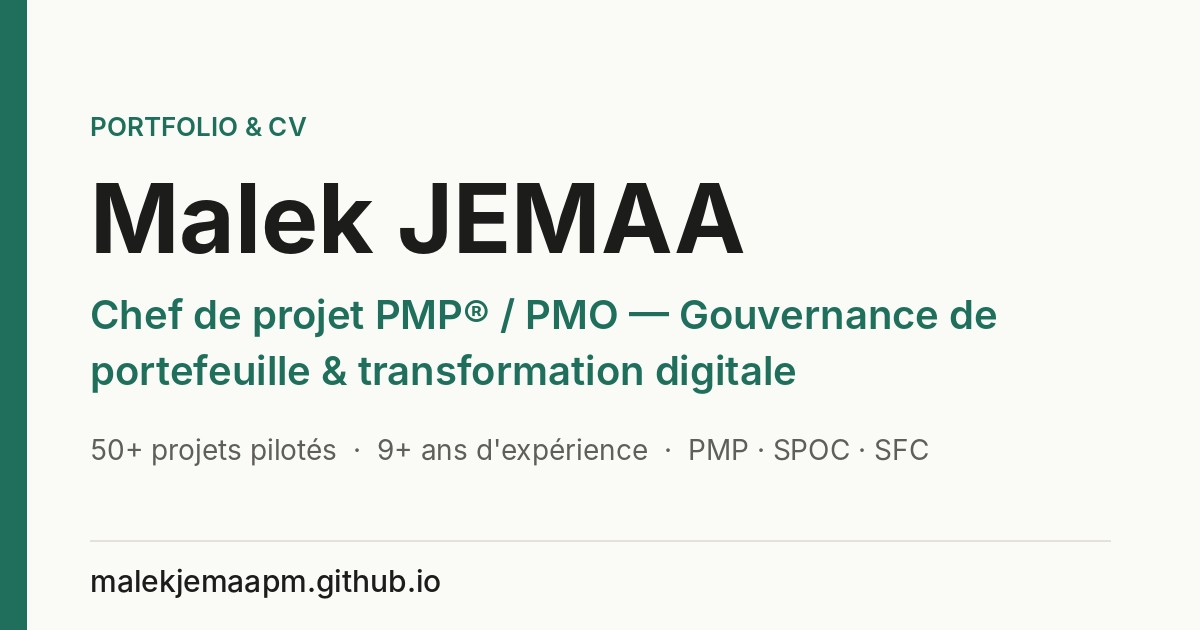
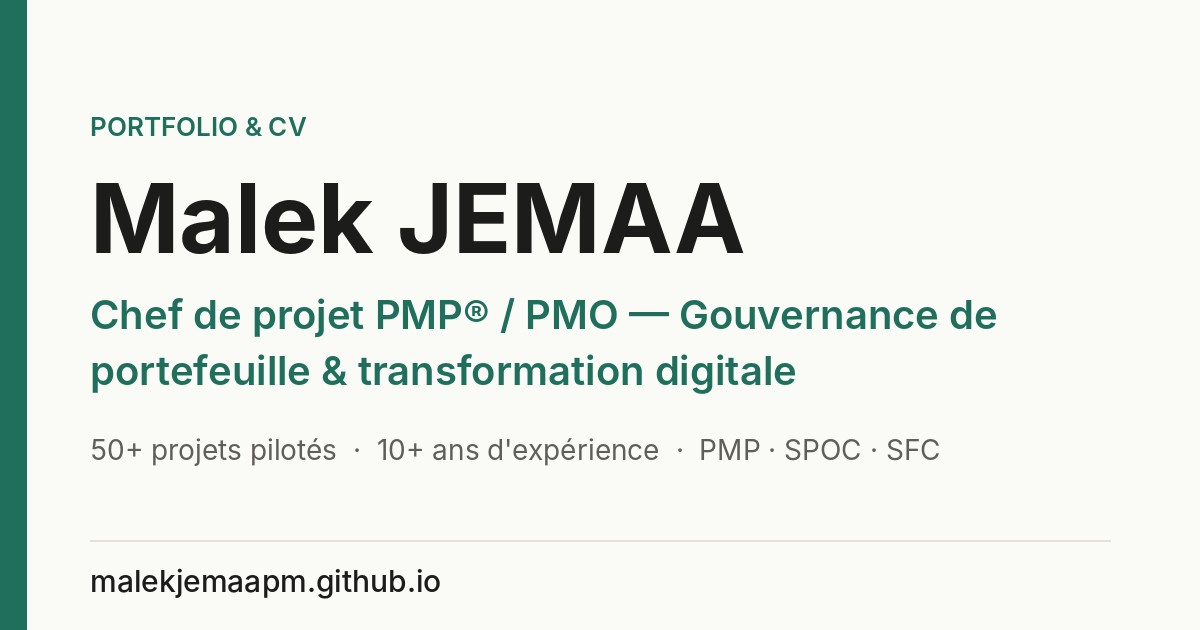
Add files via upload

Changed region(s): [[0.3083, 0.6937, 0.8017, 0.754]]

diff --git a/donnees.js b/donnees.js
@@ -11,7 +11,7 @@ const DONNEES = {
   nom: "Malek JEMAA",
   titre: "Chef de projet PMP® / PMO — Gouvernance de portefeuille & transformation digitale",
   accroche:
-    "Plus de 9 ans d'expérience à piloter des programmes de transformation digitale (IT, ERP, CRM, applications métier). Je mets en place la gouvernance, structure les portefeuilles de projets et aligne l'exécution technologique sur les objectifs business.",
+    "Plus de 10 ans d'expérience à piloter des programmes de transformation digitale (IT, ERP, CRM, applications métier). Je mets en place la gouvernance, structure les portefeuilles de projets et aligne l'exécution technologique sur les objectifs business.",
   email: "malek.jmaa2024@gmail.com",
   telephone: "+216 52 01 77 31",
   localisation: "Soukra, Ariana, Tunisie",
